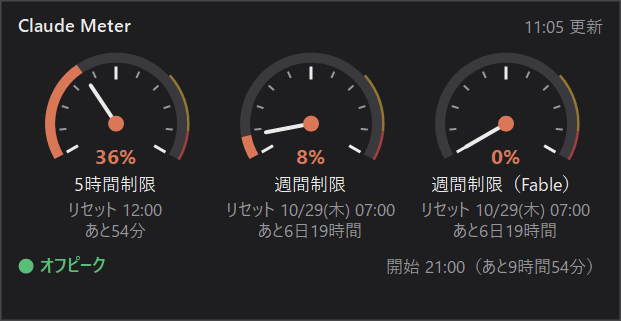
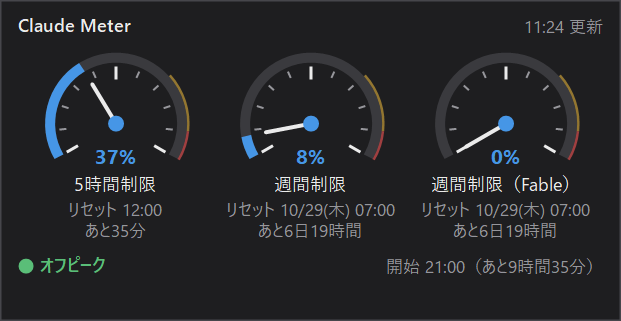
Change meter colors to blue, yellow, red
Usage below 70% is now shown in blue instead of orange. The tray icon
keeps the orange brand color.

diff --git a/src/ClaudeMeter.cs b/src/ClaudeMeter.cs
@@ -734,7 +734,8 @@ namespace ClaudeMeter
         public static readonly Color Track = Color.FromArgb(58, 58, 62);
         public static readonly Color Text = Color.FromArgb(235, 235, 235);
         public static readonly Color Sub = Color.FromArgb(150, 150, 155);
-        public static readonly Color Ok = Color.FromArgb(217, 119, 87);   // Claude 系のオレンジ
+        public static readonly Color Brand = Color.FromArgb(217, 119, 87); // アイコン用の Claude 系オレンジ
+        public static readonly Color Ok = Color.FromArgb(70, 150, 230);    // 70% 未満は青
         public static readonly Color Warn = Color.FromArgb(230, 180, 60);
         public static readonly Color Danger = Color.FromArgb(225, 80, 80);
         public static readonly Color Peak = Color.FromArgb(225, 95, 80);
@@ -1297,7 +1298,7 @@ namespace ClaudeMeter
                 using (var g = Graphics.FromImage(bmp))
                 {
                     g.SmoothingMode = SmoothingMode.AntiAlias;
-                    using (var b = new SolidBrush(Theme.Ok)) g.FillEllipse(b, 1, 1, 30, 30);
+                    using (var b = new SolidBrush(Theme.Brand)) g.FillEllipse(b, 1, 1, 30, 30);
                     using (var p = new Pen(Color.White, 4f))
                     {
                         p.StartCap = LineCap.Round; p.EndCap = LineCap.Round;
